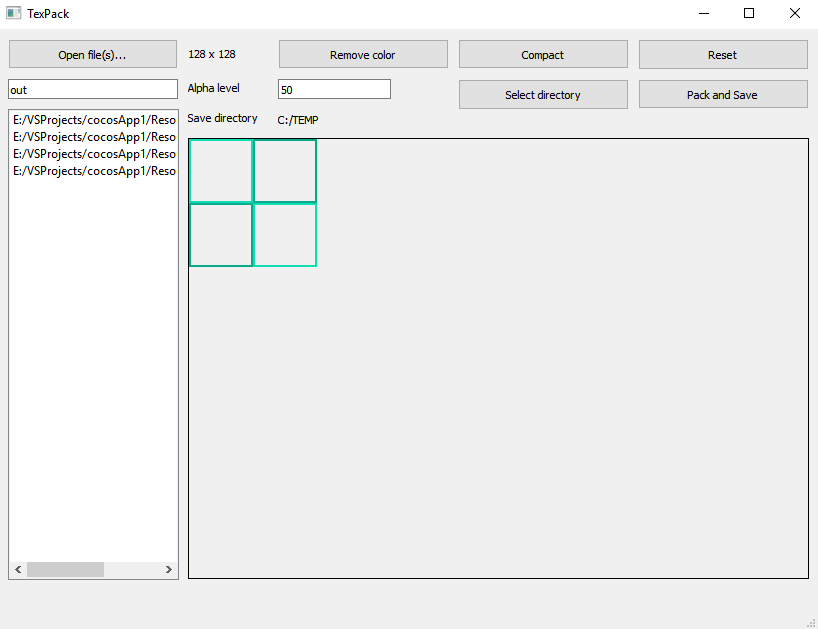
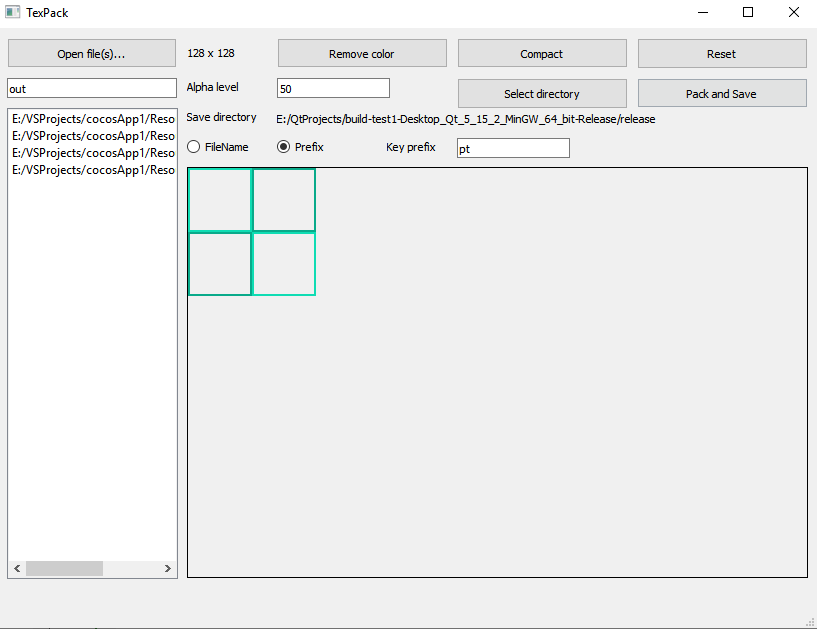
Add files via upload

diff --git a/mainwindow.cpp b/mainwindow.cpp
@@ -151,7 +151,9 @@ void MainWindow::on_btnPackImages_clicked() {
         QImage image(model->index(i).data().toString());
         QSize size = image.size();
         images.push_back(image);
-        pixmapRects.push_back(stPixmapRect(QRect(0, 0, size.width(), size.height()), &images[i]));
+        //pixmapRects.push_back(stPixmapRect(QRect(0, 0, size.width(), size.height()), &images[i]));
+        pixmapRects.push_back(stPixmapRect(QRect(0, 0, size.width(), size.height()), &images[i],
+            QFileInfo(model->index(i).data().toString()).fileName()));
     }
 
     QSize resultSize(0, 0);
@@ -177,6 +179,8 @@ void MainWindow::on_btnPackImages_clicked() {
     pngFile.open(QIODevice::WriteOnly);
     mainPixmap.save(&pngFile, "PNG");
 
+    QString prefixName;
+
     //export plist
     fullFileName = saveDirectory + "/"+ ui->edtOutFilename->text() + ".plist";
     QFile plistFfile(fullFileName);
@@ -185,7 +189,18 @@ void MainWindow::on_btnPackImages_clicked() {
         out << "<?xml version=\"1.0\" encoding=\"UTF-8\"?>\n<!DOCTYPE plist>\n<plist version=\"1.0\">\n";
         out << "\t<dict>\n\t\t<key>frames</key>\n\t\t<dict>\n";
         for(size_t i=0; i < result.size(); i++) {
-            out << "\t\t\t<key>pt" << QString::number(i) << "</key>\n";
+            if(ui->edtKeyPrefix->isEnabled()) {
+                prefixName = ui->edtKeyPrefix->text();
+                if(prefixName.length() <= 0) {
+                    prefixName = "pt";
+                }
+                prefixName += QString::number(i);
+            }
+            else {
+                prefixName = result[i].filename;
+                prefixName = prefixName.left(prefixName.lastIndexOf("."));
+            }
+            out << "\t\t\t<key>"<< prefixName << "</key>\n";
             out << "\t\t\t<dict>\n";
             out << "\t\t\t\t<key>aliases</key>\n";
             out << "\t\t\t\t<array/>\n";
@@ -275,7 +290,7 @@ std::vector<stPixmapRect> MainWindow::packRects2(std::vector<stPixmapRect> rects
             }
 
             //add rect
-            stPixmapRect pixmapRect(QRect(spaces[j].x(), spaces[j].y(), rects[i].rect.width(), rects[i].rect.height()), rects[i].pImage);
+            stPixmapRect pixmapRect(QRect(spaces[j].x(), spaces[j].y(), rects[i].rect.width(), rects[i].rect.height()), rects[i].pImage, rects[i].filename);
             packed.push_back(pixmapRect);
             resultSize.setWidth(std::max(resultSize.width(), pixmapRect.rect.x() + pixmapRect.rect.width()));
             resultSize.setHeight(std::max(resultSize.height(), pixmapRect.rect.y() + pixmapRect.rect.height()));
@@ -305,9 +320,6 @@ std::vector<stPixmapRect> MainWindow::packRects2(std::vector<stPixmapRect> rects
 void MainWindow::on_btnSelectDirectory_clicked() {
     saveDirectory = QFileDialog::getExistingDirectory(this, tr("Open Directory"), "C:\\", QFileDialog::ShowDirsOnly | QFileDialog::DontResolveSymlinks);
     ui->label_5->setText(saveDirectory);
-    QMessageBox MsgBox;
-    MsgBox.setText("Directory selected: " + saveDirectory);
-    MsgBox.exec();
 }
 
 void MainWindow::on_btnReset_clicked() {
@@ -315,4 +327,12 @@ void MainWindow::on_btnReset_clicked() {
     ui->label->clear();
     ui->label->setText("Preview Image");
     ui->label_2->setText("0 x 0");
+}
+
+void MainWindow::on_rbtPref_prefix_clicked() {
+    ui->edtKeyPrefix->setEnabled(true);
+}
+
+void MainWindow::on_rbtPref_filename_clicked() {
+    ui->edtKeyPrefix->setEnabled(false);
 }

diff --git a/mainwindow.h b/mainwindow.h
@@ -23,13 +23,20 @@ QT_END_NAMESPACE
 struct stPixmapRect {
     QRect rect;
     QImage* pImage;
+    QString filename;
     stPixmapRect() {
         rect = QRect(0,0,0,0);
         pImage = nullptr;
+        filename = "";
     }
     stPixmapRect(QRect inRect, QImage* inImage) {
         rect = inRect;
         pImage = inImage;
+    }
+    stPixmapRect(QRect inRect, QImage* inImage, QString inFilename) {
+        rect = inRect;
+        pImage = inImage;
+        filename = inFilename;
     }
 };
 
@@ -53,6 +60,10 @@ private slots:
     void on_btnSelectDirectory_clicked();
 
     void on_btnReset_clicked();
+
+    void on_rbtPref_prefix_clicked();
+
+    void on_rbtPref_filename_clicked();
 
 private:
     Ui::MainWindow* ui;
